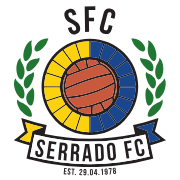
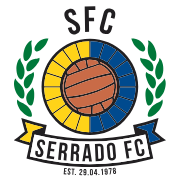
Cores oficiais do emblema
O PDF usado como fonte tinha cores convertidas (CMYK). Alinha o emblema
(SVG, PNG/ícones) e os tokens do site com o símbolo oficial:
azul #004A8E, amarelo #FFD318, verde #00783A, bola #C96B47.

Claude-Session: https://claude.ai/code/session_017n2xXqXz51rt9qTqztEmye

Changed region(s): [[0.5, 0.2222, 0.75, 0.75], [0.7222, 0.1944, 0.9167, 0.8056], [0.0556, 0.1944, 0.2778, 0.6667]]

diff --git a/src/styles.scss b/src/styles.scss
@@ -4,15 +4,15 @@
    ===================================================================== */
 :root {
   /* Marca */
-  --sfc-blue: #19468e;
-  --sfc-blue-700: #133770;
-  --sfc-blue-900: #0b2350;
-  --sfc-blue-50: #eaf0fa;
-  --sfc-yellow: #fdd20e;
-  --sfc-yellow-600: #e5bb00;
-  --sfc-green: #217632;
+  --sfc-blue: #004a8e;
+  --sfc-blue-700: #003b72;
+  --sfc-blue-900: #00264f;
+  --sfc-blue-50: #e6eef8;
+  --sfc-yellow: #ffd318;
+  --sfc-yellow-600: #ebbd00;
+  --sfc-green: #00783a;
   --sfc-green-50: #e7f4ea;
-  --sfc-ball: #c9593d;
+  --sfc-ball: #c96b47;
   --sfc-ink: #231f20;
 
   /* Semântica */
@@ -33,9 +33,9 @@
   --color-link: var(--sfc-blue);
 
   /* Modalidades */
-  --sport-atletismo: #c9593d;
-  --sport-futsal: #19468e;
-  --sport-rugby: #217632;
+  --sport-atletismo: #c96b47;
+  --sport-futsal: #004a8e;
+  --sport-rugby: #00783a;
   --sport-formacao: #b98a00;
   --sport-escola: #6a3fa0;
   --sport-clube: #231f20;
@@ -328,7 +328,7 @@ p {
 .btn--accent {
   background: var(--sfc-yellow);
   color: var(--color-on-accent);
-  box-shadow: 0 8px 22px -10px rgba(253, 210, 14, 0.9);
+  box-shadow: 0 8px 22px -10px rgba(255, 211, 24, 0.9);
   &:hover {
     background: var(--sfc-yellow-600);
   }
@@ -547,7 +547,7 @@ p {
     &:focus {
       outline: none;
       border-color: var(--sfc-blue);
-      box-shadow: 0 0 0 3px rgba(25, 70, 142, 0.18);
+      box-shadow: 0 0 0 3px rgba(0, 74, 142, 0.18);
     }
     &.ng-invalid.ng-touched {
       border-color: var(--color-danger);

diff --git a/src/app/features/club/club.component.html b/src/app/features/club/club.component.html
@@ -97,10 +97,10 @@
         A bola ao centro, rodeada pelas cores do clube, os louros da vitória e a fita com o nome e a data de fundação: <strong>EST. 29.04.1978</strong>.
       </p>
       <ul class="palette" aria-label="Cores oficiais">
-        <li><span style="background: #19468e"></span>Azul Serrado<code>#19468E</code></li>
-        <li><span style="background: #fdd20e"></span>Amarelo<code>#FDD20E</code></li>
-        <li><span style="background: #217632"></span>Verde Louro<code>#217632</code></li>
-        <li><span style="background: #c9593d"></span>Bola<code>#C9593D</code></li>
+        <li><span style="background: #004a8e"></span>Azul Serrado<code>#004A8E</code></li>
+        <li><span style="background: #ffd318"></span>Amarelo<code>#FFD318</code></li>
+        <li><span style="background: #00783A"></span>Verde Louro<code>#00783A</code></li>
+        <li><span style="background: #c96b47"></span>Bola<code>#C96B47</code></li>
         <li><span style="background: #231f20"></span>Carvão<code>#231F20</code></li>
       </ul>
     </div>

diff --git a/src/app/shared/page-hero.component.ts b/src/app/shared/page-hero.component.ts
@@ -43,11 +43,11 @@ export interface Crumb {
       overflow: hidden;
       color: #fff;
       background:
-        radial-gradient(900px 380px at 90% -10%, rgba(253, 210, 14, 0.28), transparent 60%),
+        radial-gradient(900px 380px at 90% -10%, rgba(255, 211, 24, 0.28), transparent 60%),
         linear-gradient(135deg, var(--hero-a, var(--sfc-blue)) 0%, var(--hero-b, var(--sfc-blue-900)) 100%);
-      &[data-sport='atletismo'] { --hero-a: #c9593d; --hero-b: #6e2414; }
-      &[data-sport='rugby'] { --hero-a: #217632; --hero-b: #0c3d17; }
-      &[data-sport='formacao'] { --hero-a: #19468e; --hero-b: #3d2a00; }
+      &[data-sport='atletismo'] { --hero-a: #c96b47; --hero-b: #6e2414; }
+      &[data-sport='rugby'] { --hero-a: #00783a; --hero-b: #0c3d17; }
+      &[data-sport='formacao'] { --hero-a: #004a8e; --hero-b: #3d2a00; }
       &[data-sport='escola-de-desporto'] { --hero-a: #6a3fa0; --hero-b: #2d1450; }
     }
     .phero__inner {

diff --git a/src/app/shared/member-card.component.ts b/src/app/shared/member-card.component.ts
@@ -37,7 +37,7 @@ import { QrCodeComponent } from './qr-code.component';
       padding: 1.4rem 1.5rem;
       color: #fff;
       background:
-        radial-gradient(circle at 110% -10%, rgba(253, 210, 14, 0.55), transparent 45%),
+        radial-gradient(circle at 110% -10%, rgba(255, 211, 24, 0.55), transparent 45%),
         repeating-conic-gradient(from 0deg at 105% 110%, rgba(255, 255, 255, 0.06) 0 5deg, transparent 5deg 12deg),
         linear-gradient(135deg, var(--sfc-blue), var(--sfc-blue-900));
       box-shadow: 0 24px 40px -18px rgba(11, 35, 80, 0.7);

diff --git a/src/index.html b/src/index.html
@@ -6,7 +6,7 @@
   <base href="/">
   <meta name="viewport" content="width=device-width, initial-scale=1">
   <meta name="description" content="Site oficial do Serrado Futebol Clube, fundado a 29 de abril de 1978 na Caparica. Atletismo, futsal, rugby, formação, sócios, eventos e notícias.">
-  <meta name="theme-color" content="#19468e">
+  <meta name="theme-color" content="#004a8e">
   <meta property="og:site_name" content="Serrado FC">
   <meta property="og:locale" content="pt_PT">
   <link rel="icon" href="brand/icon-32.png" sizes="32x32" type="image/png">

diff --git a/src/app/shared/qr-code.component.ts b/src/app/shared/qr-code.component.ts
@@ -16,7 +16,7 @@ import { DomSanitizer, SafeHtml } from '@angular/platform-browser';
 export class QrCodeComponent {
   readonly data = input.required<string>();
   readonly label = input('QR Code');
-  readonly color = input('#0b2350');
+  readonly color = input('#00264f');
 
   private readonly sanitizer = inject(DomSanitizer);
   protected readonly svg = signal<SafeHtml>('');

diff --git a/src/app/features/home/home.component.scss b/src/app/features/home/home.component.scss
@@ -3,7 +3,7 @@
   overflow: hidden;
   color: #fff;
   background:
-    radial-gradient(1000px 520px at 78% 30%, rgba(253, 210, 14, 0.25), transparent 62%),
+    radial-gradient(1000px 520px at 78% 30%, rgba(255, 211, 24, 0.25), transparent 62%),
     linear-gradient(150deg, var(--sfc-blue) 0%, var(--sfc-blue-900) 75%);
   isolation: isolate;
 }

diff --git a/src/app/layout/header/header.component.scss b/src/app/layout/header/header.component.scss
@@ -209,7 +209,7 @@
   color: #fff;
   border-radius: var(--radius);
   padding: 1.4rem;
-  background-image: radial-gradient(circle at 100% 0, rgba(253, 210, 14, 0.35), transparent 55%);
+  background-image: radial-gradient(circle at 100% 0, rgba(255, 211, 24, 0.35), transparent 55%);
   p {
     font-size: 0.92rem;
     opacity: 0.9;

diff --git a/README.md b/README.md
@@ -98,10 +98,10 @@ As cores foram retiradas do emblema oficial (`2025.10.13_SERRADO_FC_FINAL.pdf`):
 
 | Cor | Hex |
 |---|---|
-| Azul Serrado | `#19468E` |
-| Amarelo | `#FDD20E` |
-| Verde Louro | `#217632` |
-| Bola | `#C9593D` |
+| Azul Serrado | `#004A8E` |
+| Amarelo | `#FFD318` |
+| Verde Louro | `#00783A` |
+| Bola | `#C96B47` |
 | Carvão | `#231F20` |
 
 Os tokens estão em `src/styles.scss`. Os títulos usam a fonte *Barlow Condensed*, próxima do lettering do emblema, e o texto corrido usa *Inter*.
